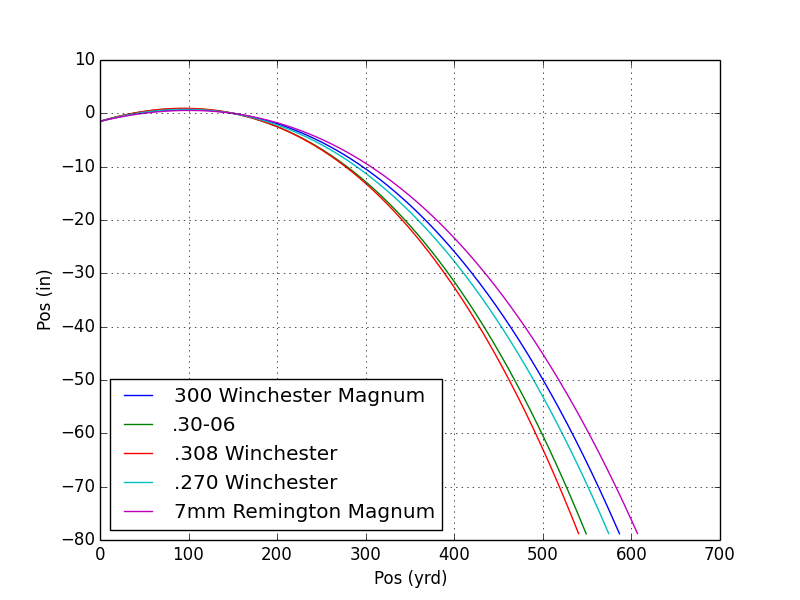
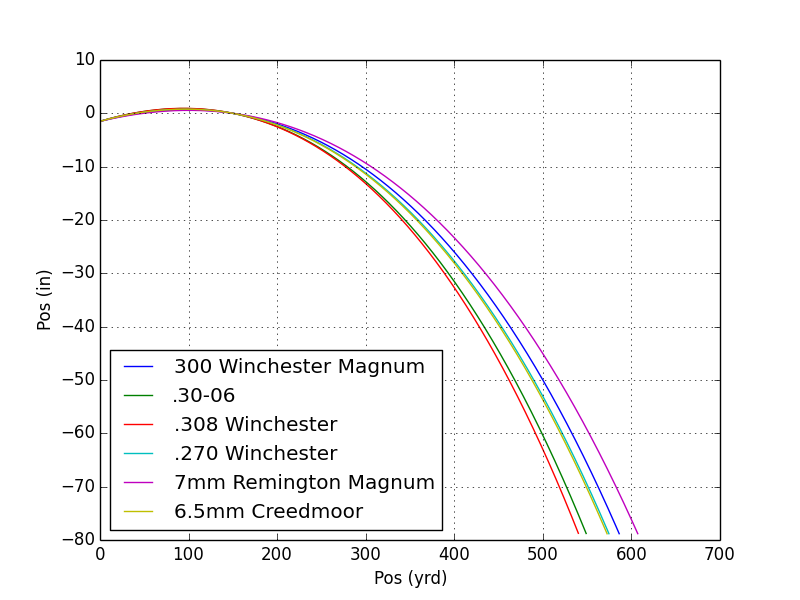
Added 6.5 Creedmoor... grr...

diff --git a/ballistics.py b/ballistics.py
@@ -53,14 +53,15 @@ class Ballistics( object ) :
         # tolerance at desired range.
 
         def minFunc(angle) :
-            self.setLaunchAngle(angle[0])
+            self.setLaunchAngle(angle)
             self.solve()
             idx = find(self.pos[:,0] > range)
-            return self.pos[idx[0],1]**2
+            return self.pos[idx[0],1]  # **2
 
-        X = fmin(minFunc,theta0_guess,ftol=.001**2)
-        self.setLaunchAngle(X[0])
-        return X[0]
+        #X = fmin(minFunc,theta0_guess,ftol=.001**2)
+        X = newton(minFunc,theta0_guess,tol=.001)
+        self.setLaunchAngle(X)
+        return X
 
     def endCond(self,pos,vel) :
         return pos[-1][1] < -2.0 # go until 2m drop
@@ -260,6 +261,12 @@ class Bullet270Winchester( Ballistics ) :
     MV = 2850*Ballistics.ft2m
     m = 150*Ballistics.grain2kg
 
+class Bullet65Creedmoor( Ballistics ) :
+    name = "6.5mm Creedmoor"
+    cal = .2645
+    A = pi*(cal*Ballistics.in2m)**2/4
+    MV = 2820*Ballistics.ft2m
+    m = 140*Ballistics.grain2kg
 
 class Bullet65mmLapua( Ballistics ) :
     """ Tyler's
@@ -307,7 +314,8 @@ def bulletComparisons() :
                Bullet30_06(),
                Bullet308Winchester(),
         Bullet270Winchester(),
-               Bullet7mmRemMag()]
+               Bullet7mmRemMag(),
+    Bullet65Creedmoor()]
                #Bullet65mmLapua()]
 
 
